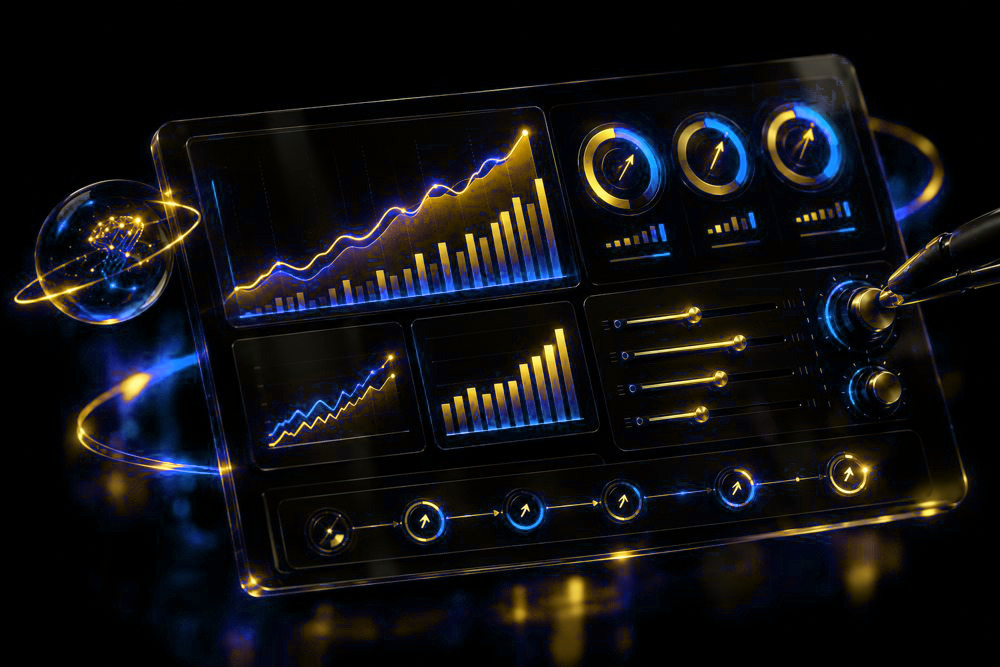
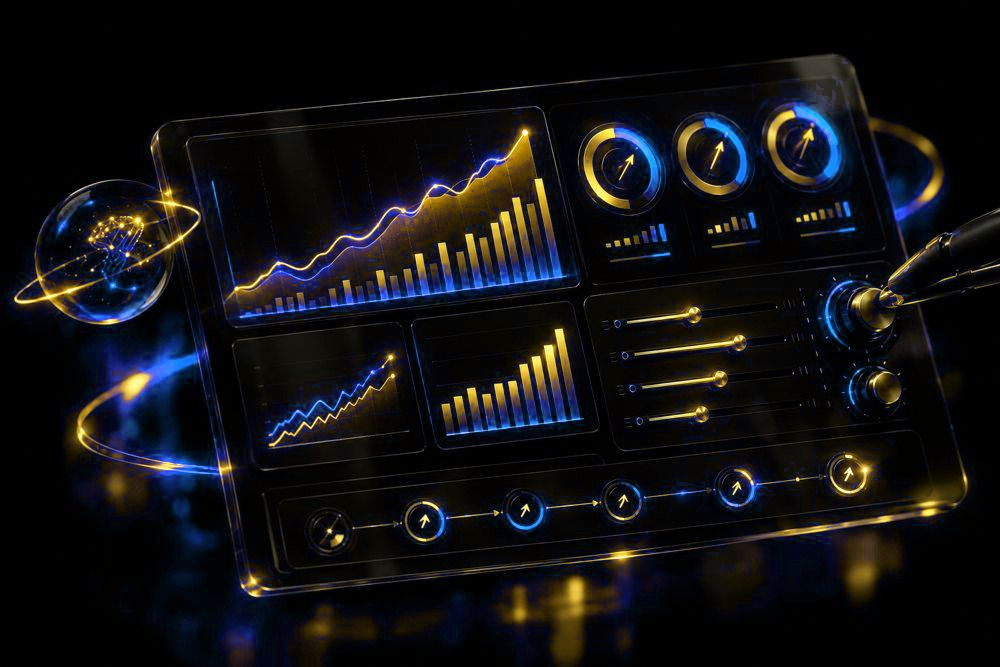
Mobile: fix page width bug, lighter effects, smaller assets

diff --git a/index.html b/index.html
@@ -10,8 +10,8 @@
 <link rel="preconnect" href="https://fonts.gstatic.com" crossorigin>
 <link href="https://fonts.googleapis.com/css2?family=Cormorant+Garamond:ital,wght@0,500;0,600;1,500;1,600&family=Amiri:ital,wght@0,400;0,700;1,400&family=IBM+Plex+Sans+Arabic:wght@400;500;600&family=JetBrains+Mono:wght@400;500&display=swap" rel="stylesheet">
 <link href="https://api.fontshare.com/v2/css?f[]=general-sans@400,500,600&display=swap" rel="stylesheet">
-<link rel="stylesheet" href="./style.css">
-<link rel="stylesheet" href="./motion.css">
+<link rel="stylesheet" href="./style.css?v=m2">
+<link rel="stylesheet" href="./motion.css?v=m2">
 </head>
 <body>
 <a class="skip" href="#main" data-i="skip">Skip to content</a>
@@ -74,9 +74,9 @@
 <!-- TRIPTYCH -->
 <section class="tri" id="tri">
   <div class="tri-stage" id="triStage">
-    <div class="arch" data-n="0"><img src="./assets/tri-ai.jpg?v=blue1" alt=""><span class="arch-l" data-i="ch1">WhatsApp</span></div>
-    <div class="arch" data-n="1"><img src="./assets/tri-ai.jpg?v=blue1" alt=""><span class="arch-l" data-i="ch2">Instagram</span></div>
-    <div class="arch" data-n="2"><img src="./assets/tri-ai.jpg?v=blue1" alt=""><span class="arch-l" data-i="ch3">Website</span></div>
+    <div class="arch" data-n="0"><img src="./assets/tri-ai.jpg?v=blue2" alt=""><span class="arch-l" data-i="ch1">WhatsApp</span></div>
+    <div class="arch" data-n="1"><img src="./assets/tri-ai.jpg?v=blue2" alt=""><span class="arch-l" data-i="ch2">Instagram</span></div>
+    <div class="arch" data-n="2"><img src="./assets/tri-ai.jpg?v=blue2" alt=""><span class="arch-l" data-i="ch3">Website</span></div>
     <h2 class="tri-h" id="triH"><span data-i="triA">Three channels.</span><em data-i="triB">One mind behind them.</em></h2>
     <p class="tri-end" id="triEnd" data-i="triEnd">Every message, on every channel, answered by one AI that knows your business.</p>
   </div>
@@ -152,11 +152,11 @@
       <h2 class="split-w" data-i="prH">From first call to <em>live system</em> in weeks.</h2>
     </div>
     <div class="hz-track" id="hzTrack">
-      <article class="hz-card"><figure class="hz-pic"><img src="./assets/p-audit.jpg?v=blue1" alt="" loading="lazy"></figure><span class="n">01</span><h3 data-i="p1t">Audit</h3><p data-i="p1d">We map where you lose time and money.</p></article>
-      <article class="hz-card"><figure class="hz-pic"><img src="./assets/p-build.jpg?v=blue1" alt="" loading="lazy"></figure><span class="n">02</span><h3 data-i="p2t">Build</h3><p data-i="p2d">We design your AI agent and flows.</p></article>
-      <article class="hz-card"><figure class="hz-pic"><img src="./assets/p-launch.jpg?v=blue1" alt="" loading="lazy"></figure><span class="n">03</span><h3 data-i="p3t">Launch</h3><p data-i="p3d">We test and go live.</p></article>
-      <article class="hz-card"><figure class="hz-pic"><img src="./assets/p-optimize.jpg?v=blue1" alt="" loading="lazy"></figure><span class="n">04</span><h3 data-i="p4t">Optimize</h3><p data-i="p4d">We review and tune every month.</p></article>
-      <figure class="hz-img"><img src="./assets/p-flow.jpg?v=blue1" alt="" loading="lazy"><figcaption data-i="flowCap">Your business, on autopilot.</figcaption></figure>
+      <article class="hz-card"><figure class="hz-pic"><img src="./assets/p-audit.jpg?v=blue2" alt="" loading="lazy"></figure><span class="n">01</span><h3 data-i="p1t">Audit</h3><p data-i="p1d">We map where you lose time and money.</p></article>
+      <article class="hz-card"><figure class="hz-pic"><img src="./assets/p-build.jpg?v=blue2" alt="" loading="lazy"></figure><span class="n">02</span><h3 data-i="p2t">Build</h3><p data-i="p2d">We design your AI agent and flows.</p></article>
+      <article class="hz-card"><figure class="hz-pic"><img src="./assets/p-launch.jpg?v=blue2" alt="" loading="lazy"></figure><span class="n">03</span><h3 data-i="p3t">Launch</h3><p data-i="p3d">We test and go live.</p></article>
+      <article class="hz-card"><figure class="hz-pic"><img src="./assets/p-optimize.jpg?v=blue2" alt="" loading="lazy"></figure><span class="n">04</span><h3 data-i="p4t">Optimize</h3><p data-i="p4d">We review and tune every month.</p></article>
+      <figure class="hz-img"><img src="./assets/p-flow.jpg?v=blue2" alt="" loading="lazy"><figcaption data-i="flowCap">Your business, on autopilot.</figcaption></figure>
     </div>
     <div class="wrap hz-bar"><i id="hzProg"></i></div>
   </div>
@@ -193,7 +193,7 @@
 <!-- CTA -->
 <section class="sec cta" id="contact">
   <div class="wrap cta-in">
-    <figure class="cta-img rv"><img src="./assets/cta-man.jpg?v=blue1" alt="A business owner watching automations run from his phone" loading="lazy"></figure>
+    <figure class="cta-img rv"><img src="./assets/cta-man.jpg?v=blue2" alt="A business owner watching automations run from his phone" loading="lazy"></figure>
     <div>
       <p class="eyebrow rv" data-i="ctEye">Let's talk</p>
       <h2 class="split-w" data-i="ctH">Ready to <em>rise</em> above the busywork?</h2>
@@ -246,9 +246,9 @@
 <script src="https://cdn.jsdelivr.net/npm/gsap@3.13.0/dist/ScrollTrigger.min.js"></script>
 <script src="https://cdn.jsdelivr.net/npm/gsap@3.13.0/dist/SplitText.min.js"></script>
 <script src="https://cdn.jsdelivr.net/npm/lenis@1.3.4/dist/lenis.min.js"></script>
-<script src="./app.js"></script>
-<script src="./motion.js"></script>
-<script type="module" src="./gl.js"></script>
+<script src="./app.js?v=m2"></script>
+<script src="./motion.js?v=m2"></script>
+<script type="module" src="./gl.js?v=m2"></script>
 <script data-pplx-inline-edit>
 (function () {
   if (window === window.top) return;

diff --git a/gl.js b/gl.js
@@ -1,5 +1,5 @@
 // One Arise — golden particle field (Three.js)
-import * as THREE from 'https://cdn.jsdelivr.net/npm/three@0.169.0/build/three.module.js';
+import * as THREE from 'https://cdn.jsdelivr.net/npm/three@0.169.0/build/three.module.min.js';
 
 const canvas = document.getElementById('gl');
 const reduce = matchMedia('(prefers-reduced-motion:reduce)').matches;
@@ -8,7 +8,7 @@ const mobile = innerWidth < 760;
 let renderer;
 try { renderer = new THREE.WebGLRenderer({ canvas, antialias: false, alpha: true, powerPreference: 'high-performance' }); }
 catch (e) { canvas.classList.add('nogl'); throw e; }
-renderer.setPixelRatio(Math.min(devicePixelRatio, mobile ? 1.5 : 1.75));
+renderer.setPixelRatio(Math.min(devicePixelRatio, mobile ? 1.25 : 1.75));
 renderer.setSize(innerWidth, innerHeight);
 renderer.setClearColor(0x000000, 0);
 
@@ -68,7 +68,7 @@ const streamMat = new THREE.ShaderMaterial({
 scene.add(new THREE.Points(sg, streamMat));
 
 /* ---------- dust nebula ---------- */
-const DN = mobile ? 900 : 2200;
+const DN = mobile ? 600 : 2200;
 const dp = new Float32Array(DN * 3), dr = new Float32Array(DN), dc = new Float32Array(DN);
 for (let i = 0; i < DN; i++) {
   const R = 4 + Math.pow(Math.random(), 0.7) * 34, th = Math.random() * Math.PI * 2, ph = Math.acos(2 * Math.random() - 1);
@@ -116,7 +116,7 @@ const core2 = mkSprite(coreTex, 34, -38, 0.35);
 // warm nebula fog clouds
 const fogTex = glowTex([[0, 'rgba(24,48,96,.22)'], [0.5, 'rgba(18,36,80,.09)'], [1, 'rgba(0,0,0,0)']]);
 const fogs = [];
-for (let i = 0; i < 7; i++) { const f = mkSprite(i % 3 === 0 ? redTex : fogTex, 26 + Math.random() * 30, -20 - Math.random() * 20, 0.5); f.userData = { x: (Math.random() - .5) * 40, y: (Math.random() - .5) * 20, ph: Math.random() * 6 }; fogs.push(f); }
+for (let i = 0; i < (mobile ? 4 : 7); i++) { const f = mkSprite(i % 3 === 0 ? redTex : fogTex, 26 + Math.random() * 30, -20 - Math.random() * 20, 0.5); f.userData = { x: (Math.random() - .5) * 40, y: (Math.random() - .5) * 20, ph: Math.random() * 6 }; fogs.push(f); }
 
 // streaks: thin stretched sprites drifting
 const streakTex = (() => { const c = document.createElement('canvas'); c.width = 256; c.height = 16; const x = c.getContext('2d'); const g = x.createLinearGradient(0, 0, 256, 0); g.addColorStop(0, 'rgba(255,220,150,0)'); g.addColorStop(.5, 'rgba(255,225,160,.9)'); g.addColorStop(1, 'rgba(255,220,150,0)'); x.fillStyle = g; x.fillRect(0, 6, 256, 4); const t = new THREE.CanvasTexture(c); return t; })();
@@ -131,7 +131,8 @@ for (let i = 0; i < (mobile ? 6 : 12); i++) {
 /* ---------- interaction ---------- */
 const mouse = { x: 0, y: 0, tx: 0, ty: 0 };
 addEventListener('pointermove', e => { mouse.tx = (e.clientX / innerWidth - .5) * 2; mouse.ty = (e.clientY / innerHeight - .5) * 2; }, { passive: true });
-addEventListener('resize', () => { camera.aspect = innerWidth / innerHeight; camera.updateProjectionMatrix(); renderer.setSize(innerWidth, innerHeight); });
+let lastW = innerWidth, lastH = innerHeight;
+addEventListener('resize', () => { if (innerWidth === lastW && Math.abs(innerHeight - lastH) < 160) return; lastW = innerWidth; lastH = innerHeight; camera.aspect = innerWidth / innerHeight; camera.updateProjectionMatrix(); renderer.setSize(innerWidth, innerHeight); });
 
 let scrollP = 0, fade = 1, visible = true;
 window.__gl = {
@@ -142,9 +143,11 @@ document.addEventListener('visibilitychange', () => visible = !document.hidden);
 
 const clock = new THREE.Clock();
 let t = 0;
+let frameSkip = false;
 function frame() {
   requestAnimationFrame(frame);
   if (!visible) return;
+  if (mobile) { frameSkip = !frameSkip; if (frameSkip) return; }
   const dt = Math.min(clock.getDelta(), 0.05);
   t += reduce ? 0 : dt;
   mouse.x += (mouse.tx - mouse.x) * 0.04; mouse.y += (mouse.ty - mouse.y) * 0.04;

diff --git a/motion.css b/motion.css
@@ -234,3 +234,17 @@ html[dir=rtl] .btn .bt::after{content:"←";transform:translateX(8px)}
 .statement .st-text{text-shadow:0 2px 26px rgba(7,9,15,.9)}
 .stairs .st-t,.stairs .st-d{text-shadow:0 1px 16px rgba(7,9,15,.9)}
 .stairs .st-d{color:var(--mut)}
+
+
+/* ===== mobile fit + performance ===== */
+html,body{overflow-x:hidden;overflow-x:clip;max-width:100%}
+.big-pin,.stairs,.hz,.tri,.hero,.sec-dark,.cta{overflow-x:clip}
+@media (max-width:760px){
+  .nav.solid{background:rgba(7,9,15,.94);backdrop-filter:none;-webkit-backdrop-filter:none}
+  .bottombar{background:rgba(7,9,15,.95)!important;backdrop-filter:none!important;-webkit-backdrop-filter:none!important}
+  .marquee{background:rgba(12,16,24,.92);backdrop-filter:none}
+  .hz-card{background:linear-gradient(160deg,rgba(15,20,29,.97),rgba(7,9,15,.92));backdrop-filter:none}
+  .sec-dark{background:rgba(10,14,22,.88);backdrop-filter:none}
+  .btn-ghost{backdrop-filter:none}
+  .hz-pic img{transition:none}
+}

diff --git a/motion.js b/motion.js
@@ -6,6 +6,7 @@
   const isAr = () => document.documentElement.lang === 'ar';
   const html = document.documentElement;
   const hasG = !!(window.gsap && window.ScrollTrigger);
+  if (hasG) { try { ScrollTrigger.config({ ignoreMobileResize: true }); } catch (e) {} }
 
   function finishLoader() { const l = $('#loader'); if (l) l.classList.add('gone'); html.classList.remove('is-loading'); html.classList.add('is-ready'); }
   if (!hasG || reduce) { finishLoader(); $$('.h-fade').forEach(e => e.style.opacity = 1); $$('.cnt').forEach(e => e.textContent = e.dataset.to); return; }
